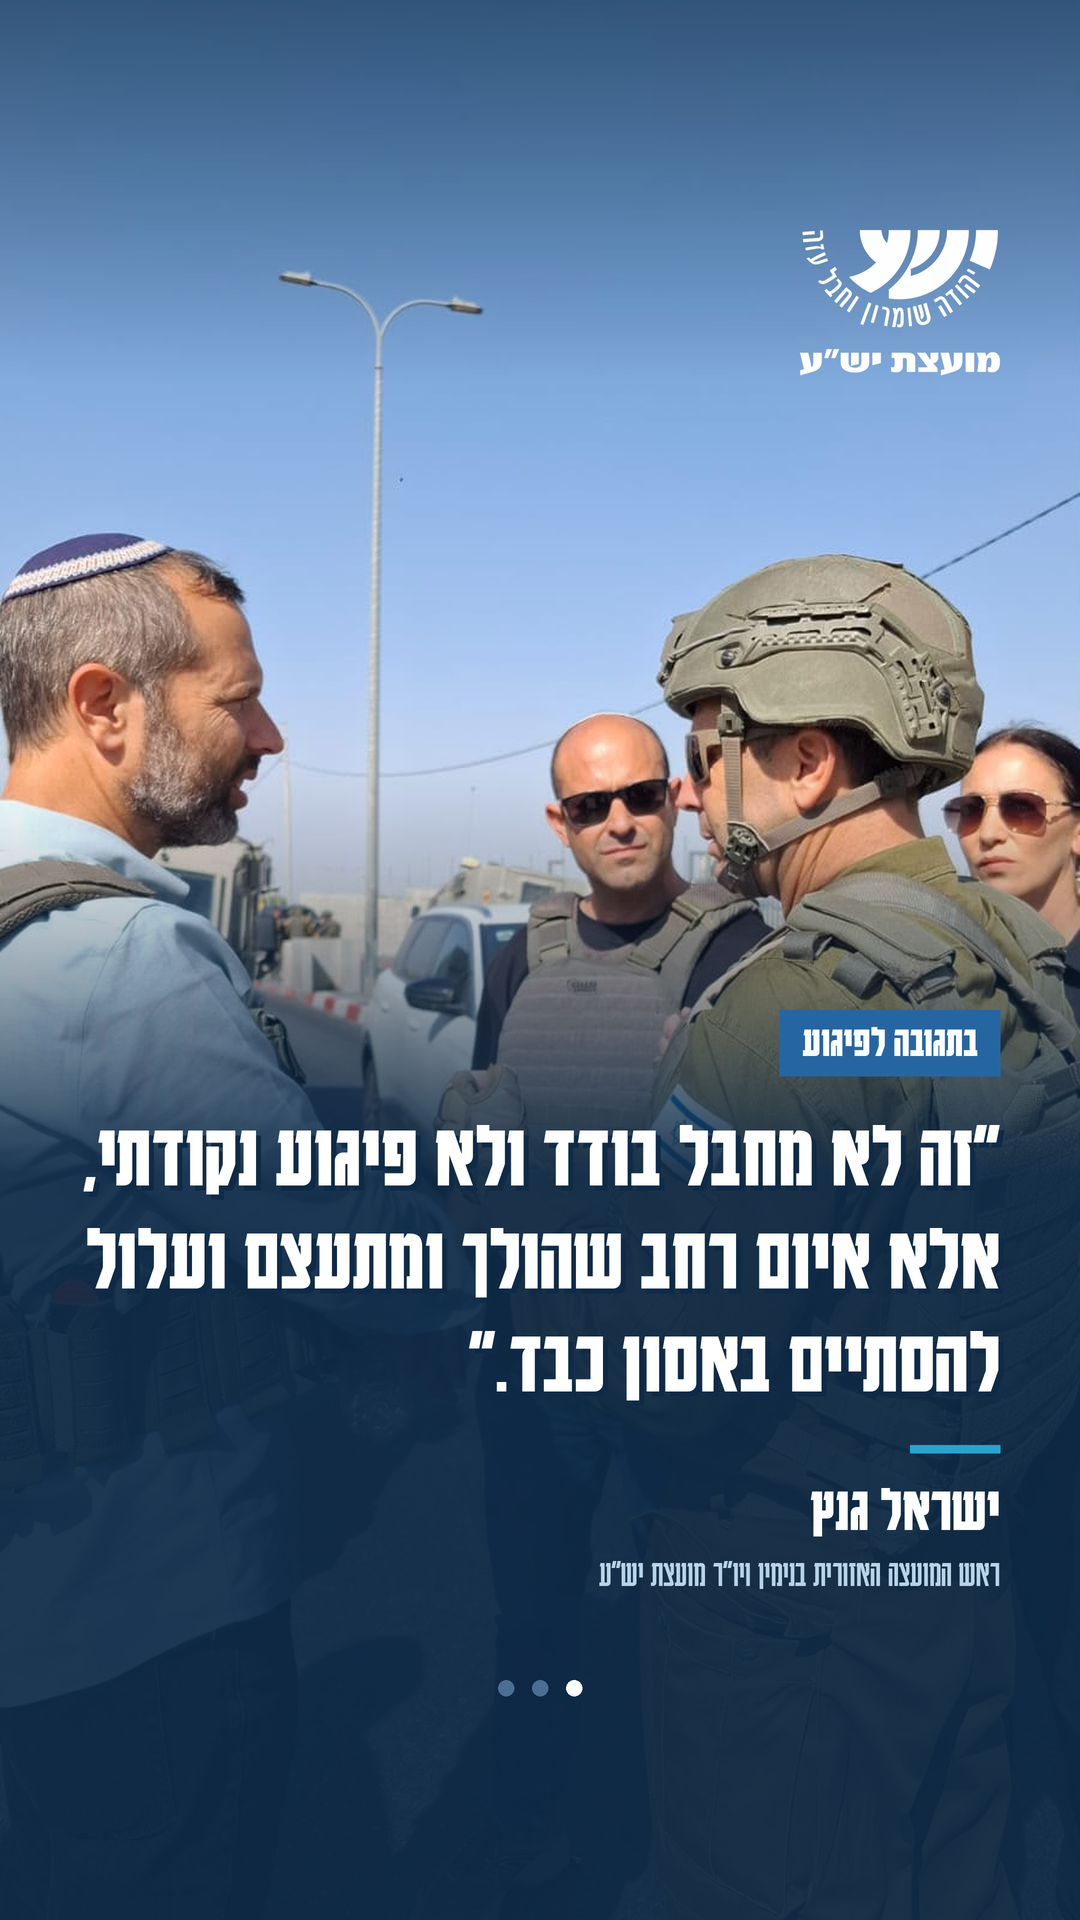
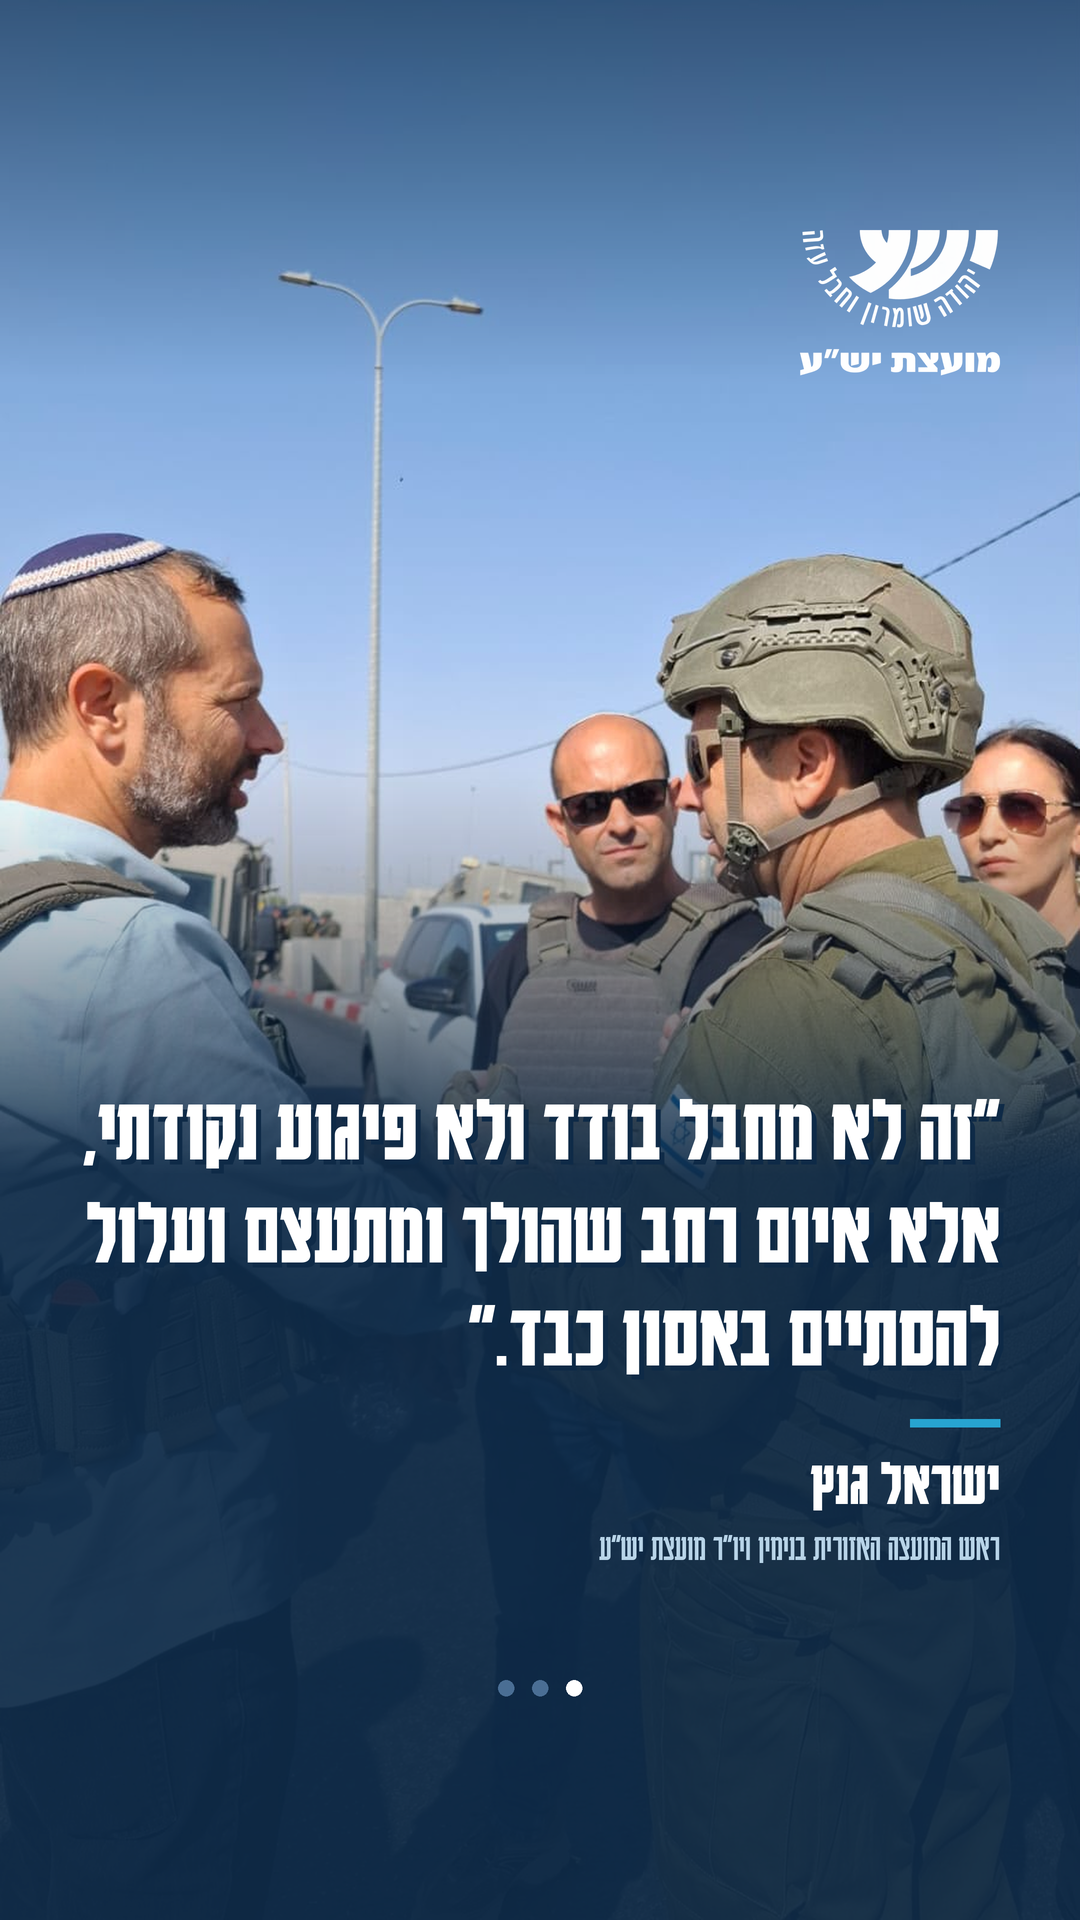
Yesha story: drop tag on frame 1 and signature on frame 2
Claude-Session: https://claude.ai/code/session_01RS3QK6pAd3YhyAuXZSJjH1

Changed region(s): [[0.0611, 0.5, 0.9472, 0.8438]]

diff --git a/content-kit/yesha/2026-10-story-gantz-statement/make.py b/content-kit/yesha/2026-10-story-gantz-statement/make.py
@@ -53,9 +53,7 @@ def f1():
     img.paste(ov, (0, 0), ov)
     d = ImageDraw.Draw(img)
     logo(img, 200, W - M, TOP, plate=True)
-    y = 1010
-    h = tag(d, y, 'בתגובה לפיגוע', 44, bg=BLUE)
-    y = quote_lines(d, '״זה לא מחבל בודד ולא פיגוע נקודתי, אלא איום רחב שהולך ומתעצם ועלול להסתיים באסון כבד.״', 92, y + h + 30)
+    y = quote_lines(d, '״זה לא מחבל בודד ולא פיגוע נקודתי, אלא איום רחב שהולך ומתעצם ועלול להסתיים באסון כבד.״', 92, 1080)
     signature(d, y + 30)
     frame_dots(d, 1)
     save(img, 1)
@@ -66,14 +64,13 @@ def f2():
     img = dark_canvas(); arcs(img, 980, 1900, alpha=40, n=4, r0=420, step=80, width=40)
     d = ImageDraw.Draw(img)
     logo(img, 200, W - M, TOP, plate=True)
-    tag(d, 470, 'רק בשלושים הימים האחרונים', 50, bg=BLUE)
-    text(d, (W - M, 560), '197', 480, WHITE, rtl=False, shadow=(14, 14, BLUE))
-    text(d, (W - M, 1060), 'אירועי טרור ותקיפות', 112, LB, shadow=(5, 5, DEEP))
-    text(d, (W - M, 1185), 'ביהודה ושומרון', 112, LB, shadow=(5, 5, DEEP))
-    y = 1320
+    tag(d, 560, 'רק בשלושים הימים האחרונים', 50, bg=BLUE)
+    text(d, (W - M, 650), '197', 480, WHITE, rtl=False, shadow=(14, 14, BLUE))
+    text(d, (W - M, 1150), 'אירועי טרור ותקיפות', 112, LB, shadow=(5, 5, DEEP))
+    text(d, (W - M, 1275), 'ביהודה ושומרון', 112, LB, shadow=(5, 5, DEEP))
+    y = 1410
     for ln in wrap(d, 'בהם פיגועי אבנים, דריסה, תקיפות רועים יהודים וחסימות צירים.', 46, W - 2 * M):
         text(d, (W - M, y), ln, 50, SOFT, bold=False); y += 64
-    signature(d, y + 50)
     frame_dots(d, 2)
     save(img, 2)
 
